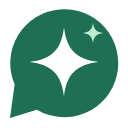
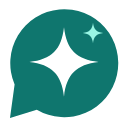
Switch the site to the teal palette

diff --git a/assets/style.css b/assets/style.css
@@ -1,14 +1,15 @@
-/* PromptClean site: the "Clean room" palette from the extension (white and mint, deep green, dark-green
-   ink). System fonts only and no scripts, so the site makes no requests to anyone else.
+/* PromptClean site: the "Teal" palette (soft teal-white, deep teal for actions and good outcomes, near-black
+   teal ink and band). System fonts only and no scripts, so the site makes no requests to anyone else.
 
    Motion is CSS only and never hides content: the page is complete at rest. Scroll-linked motion only
    slides elements a little, and only where the browser supports it and the reader has not asked for
    less motion. */
 :root {
-  --bg: #f2f7f4; --surface: #ffffff; --ink: #14302a; --muted: #4f6b64; --line: #cfe2d8;
-  --accent: #1f6f54; --accent-ink: #ffffff; --mint: #dcefe5; --mint-deep: #bfe3cf; --risk: #a4482a; --risk-bg: #fbeee7;
-  --band: #14302a; --band-ink: #e4f1ea; --band-muted: #a9c7bb; --band-line: #2b4b42; --band-accent: #8fd9b3;
-  --code-bg: #f7faf8; --todo: #fff1c2;
+  --bg: #f2f9f8; --surface: #ffffff; --ink: #0c2a29; --muted: #4a6866; --line: #cde5e2;
+  --accent: #0f766e; --accent-ink: #ffffff; --mint: #d9f0ec; --mint-deep: #b4e0d9; --risk: #a4482a; --risk-bg: #fbeee7;
+  --ok: #0f766e; --ok-bg: #dcf4f0;
+  --band: #0b3b3a; --band-ink: #e4f5f2; --band-muted: #a6cdc8; --band-line: #1f5553; --band-accent: #5eead4;
+  --code-bg: #f5faf9; --todo: #fff1c2;
   --sans: system-ui, -apple-system, "Segoe UI", Roboto, "Helvetica Neue", Arial, sans-serif;
   --mono: ui-monospace, "SF Mono", Menlo, Consolas, "Liberation Mono", monospace;
   --radius: 16px;
@@ -71,22 +72,22 @@ kbd { font: 600 0.82em var(--mono); display: inline-block; min-width: 1.9em; pad
 .hero h1 mark { background: linear-gradient(transparent 60%, var(--mint-deep) 60% 92%, transparent 92%); color: inherit; padding: 0 0.06em; border-radius: 2px; }
 .hero-shortcut { font-size: 15px; color: var(--muted); display: flex; align-items: center; gap: 10px; flex-wrap: wrap; }
 .facts-strip { display: flex; flex-wrap: wrap; gap: 8px 18px; font-size: 14px; color: var(--muted); padding-top: 18px; border-top: 1px solid var(--line); }
-.facts-strip span::before { content: "✓"; color: var(--accent); font-weight: 700; margin-right: 6px; }
+.facts-strip span::before { content: "✓"; color: var(--ok); font-weight: 700; margin-right: 6px; }
 @media (max-width: 920px) { .hero .wrap { grid-template-columns: minmax(0, 1fr); gap: 48px; } }
 
 /* the before/after, drawn in HTML so it stays readable at any width */
 .demo { display: flex; flex-direction: column; gap: 12px; }
-.pane { background: var(--surface); border: 1px solid var(--line); border-radius: var(--radius); overflow: hidden; box-shadow: 0 24px 60px -30px rgba(20, 48, 42, 0.5); }
+.pane { background: var(--surface); border: 1px solid var(--line); border-radius: var(--radius); overflow: hidden; box-shadow: 0 24px 60px -30px rgba(12, 42, 41, 0.5); }
 .pane-head { display: flex; align-items: center; justify-content: space-between; gap: 12px; padding: 11px 16px; border-bottom: 1px solid var(--line); font-size: 12px; font-weight: 750; letter-spacing: 0.08em; text-transform: uppercase; }
 .pane-head .file { font: 500 12.5px var(--mono); letter-spacing: 0; text-transform: none; color: var(--muted); }
 .pane.before .pane-head { color: var(--risk); }
-.pane.after .pane-head { color: var(--accent); }
+.pane.after .pane-head { color: var(--ok); }
 .pane pre { margin: 0; padding: 16px; font: 13.5px/1.75 var(--mono); background: var(--code-bg); overflow-x: auto; color: var(--ink); }
 .pane .dim { color: var(--muted); }
 .pane .exposed { color: var(--ink); text-decoration: underline 2px var(--risk); text-underline-offset: 3px; }
 .pane .ph { background: var(--accent); color: var(--accent-ink); border-radius: 6px; padding: 0.05em 0.45em; font-weight: 650; display: inline-block; transform-origin: left center; }
 .pane .collapsed { color: var(--accent); font-weight: 650; }
-.pane-foot { padding: 12px 16px; font-size: 14px; font-weight: 700; color: var(--accent); border-top: 1px solid var(--line); background: var(--mint); }
+.pane-foot { padding: 12px 16px; font-size: 14px; font-weight: 700; color: var(--ok); border-top: 1px solid var(--line); background: var(--ok-bg); }
 .demo-arrow { align-self: center; display: flex; align-items: center; gap: 8px; font-size: 13px; font-weight: 750; color: var(--accent); letter-spacing: 0.02em; }
 .demo-arrow::before { content: "↓"; font-size: 18px; }
 
@@ -99,7 +100,7 @@ kbd { font: 600 0.82em var(--mono); display: inline-block; min-width: 1.9em; pad
 }
 .flow-step { display: flex; flex-direction: column; gap: 22px; position: relative; }
 .flow-ui { background: linear-gradient(160deg, var(--mint) 0%, var(--bg) 100%); border: 1px solid var(--line); border-radius: 22px; padding: 22px; min-height: 280px; display: flex; flex-direction: column; justify-content: center; gap: 14px; }
-.mock { background: var(--surface); border: 1px solid var(--line); border-radius: 16px; box-shadow: 0 18px 36px -24px rgba(20, 48, 42, 0.5); }
+.mock { background: var(--surface); border: 1px solid var(--line); border-radius: 16px; box-shadow: 0 18px 36px -24px rgba(12, 42, 41, 0.5); }
 .composer { padding: 14px 16px; }
 .draft { font: 12.5px/1.75 var(--mono); color: var(--ink); margin: 0; overflow-wrap: anywhere; }
 .draft .u { text-decoration: underline 2px var(--risk); text-underline-offset: 3px; }
@@ -107,8 +108,8 @@ kbd { font: 600 0.82em var(--mono); display: inline-block; min-width: 1.9em; pad
 .mock-floats { display: flex; flex-direction: column; align-items: flex-end; gap: 8px; }
 .hint-chip { display: inline-flex; align-items: center; gap: 8px; background: var(--risk-bg); color: var(--ink); border: 1px solid color-mix(in srgb, var(--risk) 35%, transparent); border-radius: 12px; padding: 8px 12px; font-size: 12.5px; }
 .hint-chip i { font-style: normal; flex: none; width: 16px; height: 16px; border-radius: 50%; background: var(--risk); color: #fff; font: 700 11px/16px var(--sans); text-align: center; }
-.fab-pill { display: inline-flex; align-items: center; gap: 8px; background: #14302a; color: #fff; border: 1px solid rgba(255, 255, 255, 0.12); border-radius: 999px; padding: 5px 15px 5px 5px; font-weight: 650; font-size: 13px; box-shadow: 0 1px 2px rgba(8, 24, 20, 0.3), 0 8px 24px -8px rgba(8, 24, 20, 0.5); }
-.fab-pill .mark { display: grid; place-items: center; width: 24px; height: 24px; border-radius: 50%; background: #bfeccf; color: #14302a; }
+.fab-pill { display: inline-flex; align-items: center; gap: 8px; background: #0b3b3a; color: #fff; border: 1px solid rgba(255, 255, 255, 0.12); border-radius: 999px; padding: 5px 15px 5px 5px; font-weight: 650; font-size: 13px; box-shadow: 0 1px 2px rgba(6, 30, 29, 0.3), 0 8px 24px -8px rgba(6, 30, 29, 0.5); }
+.fab-pill .mark { display: grid; place-items: center; width: 24px; height: 24px; border-radius: 50%; background: #99f6e4; color: #0b3b3a; }
 .panel { padding: 14px; display: flex; flex-direction: column; gap: 10px; }
 .p-head { display: flex; align-items: center; gap: 8px; font-size: 13.5px; }
 .p-head img { border-radius: 5px; }
@@ -118,7 +119,7 @@ kbd { font: 600 0.82em var(--mono); display: inline-block; min-width: 1.9em; pad
 .p-pill svg, .p-x svg, .p-tabs svg, .p-rows svg, .fab-pill svg { flex: none; display: block; }
 .p-tabs { display: flex; gap: 2px; padding: 3px; background: var(--mint); border-radius: 11px; font-size: 12.5px; font-weight: 600; }
 .p-tabs span { flex: 1; display: flex; align-items: center; justify-content: center; gap: 6px; padding: 6px; border-radius: 8px; color: var(--muted); }
-.p-tabs .on { background: var(--surface); color: var(--accent); box-shadow: 0 1px 2px rgba(18, 48, 42, 0.14), 0 0 0 1px var(--line); }
+.p-tabs .on { background: var(--surface); color: var(--accent); box-shadow: 0 1px 2px rgba(12, 42, 41, 0.14), 0 0 0 1px var(--line); }
 .p-intro { margin: 0; font-size: 11.5px; line-height: 1.45; color: var(--muted); }
 .p-card { border: 1px solid var(--line); border-radius: 10px; padding: 8px 10px; background: var(--surface); }
 .p-count { font-size: 12px; font-weight: 650; margin: 0 0 4px; padding-bottom: 7px; border-bottom: 1px solid var(--line); }
@@ -132,7 +133,7 @@ kbd { font: 600 0.82em var(--mono); display: inline-block; min-width: 1.9em; pad
 .p-btn { background: var(--accent); color: var(--accent-ink); text-align: center; border-radius: 10px; padding: 9px; font-weight: 650; font-size: 13.5px; }
 .c-foot { display: flex; align-items: center; justify-content: flex-end; gap: 12px; margin-top: 12px; font-size: 12px; color: var(--muted); }
 .send { width: 28px; height: 28px; border-radius: 50%; background: var(--accent); color: var(--accent-ink); display: grid; place-items: center; font-weight: 700; box-shadow: 0 0 0 4px var(--mint-deep); }
-.ok-line { margin: 0; color: var(--accent); font-size: 12.5px; font-weight: 650; }
+.ok-line { margin: 0; color: var(--ok); font-size: 12.5px; font-weight: 650; }
 .flow-text { display: grid; grid-template-columns: 40px minmax(0, 1fr); gap: 2px 14px; align-items: start; align-content: start; }
 .flow-n { grid-row: 1 / span 2; width: 40px; height: 40px; border-radius: 50%; background: var(--accent); color: var(--accent-ink); font: 700 15px var(--mono); display: grid; place-items: center; box-shadow: 0 8px 18px -10px var(--accent); }
 .flow-text h3 { font-size: 1.18rem; align-self: center; }
@@ -143,7 +144,7 @@ kbd { font: 600 0.82em var(--mono); display: inline-block; min-width: 1.9em; pad
 }
 @media (hover: hover) and (pointer: fine) and (prefers-reduced-motion: no-preference) {
   .flow-ui { transition: transform 200ms var(--ease-out), box-shadow 200ms var(--ease-out); }
-  .flow-step:hover .flow-ui { transform: translateY(-3px); box-shadow: 0 22px 40px -28px rgba(20, 48, 42, 0.55); }
+  .flow-step:hover .flow-ui { transform: translateY(-3px); box-shadow: 0 22px 40px -28px rgba(12, 42, 41, 0.55); }
 }
 
 /* ---------- the moment it matters: switch the log between three states ----------
@@ -173,12 +174,13 @@ kbd { font: 600 0.82em var(--mono); display: inline-block; min-width: 1.9em; pad
 .moment-steps h3 { font-size: 1.08rem; }
 .moment-steps p { color: var(--band-muted); font-size: 15.5px; margin-top: 4px; }
 .moment .pane-head { color: var(--accent); }
-.moment .pane-foot { font-variant-numeric: tabular-nums; }
+/* this foot starts in the exposed state ("Secrets hidden: 0"), so it stays violet rather than the teal "all clear" */
+.moment .pane-foot { font-variant-numeric: tabular-nums; color: var(--accent); background: var(--mint); }
 
 .seg { position: relative; display: inline-flex; flex-wrap: wrap; gap: 4px; padding: 4px; border: 1px solid var(--band-line); border-radius: 999px; background: rgba(255, 255, 255, 0.04); margin-bottom: 18px; }
 .seg input { position: absolute; left: 0; top: 0; opacity: 0; width: 1px; height: 1px; margin: 0; }
 .seg label { padding: 9px 16px; border-radius: 999px; font-weight: 650; font-size: 14px; color: var(--band-muted); cursor: pointer; }
-.seg input:checked + label { background: var(--band-accent); color: #0b1a14; }
+.seg input:checked + label { background: var(--band-accent); color: #0b3b3a; }
 .seg input:focus-visible + label { outline: 3px solid var(--band-accent); outline-offset: 2px; }
 
 .lp-body { padding: 16px; font: 13.5px/1.75 var(--mono); background: var(--code-bg); color: var(--ink); contain: layout paint; }
@@ -222,7 +224,7 @@ kbd { font: 600 0.82em var(--mono); display: inline-block; min-width: 1.9em; pad
 
 /* ---------- shortcuts ---------- */
 .keys { display: grid; grid-template-columns: repeat(auto-fit, minmax(300px, 1fr)); gap: 22px; margin-top: 44px; }
-.key-card { border: 1px solid var(--line); border-radius: 20px; padding: 28px; display: flex; flex-direction: column; gap: 16px; background: var(--surface); box-shadow: 0 1px 0 var(--line), 0 18px 40px -28px rgba(20, 48, 42, 0.35); }
+.key-card { border: 1px solid var(--line); border-radius: 20px; padding: 28px; display: flex; flex-direction: column; gap: 16px; background: var(--surface); box-shadow: 0 1px 0 var(--line), 0 18px 40px -28px rgba(12, 42, 41, 0.35); }
 .key-card .combo { font-size: 22px; }
 .key-card kbd { background: var(--mint); color: var(--ink); border-color: var(--mint-deep); }
 .key-card h3 { font-size: 1.4rem; }
@@ -262,7 +264,7 @@ kbd { font: 600 0.82em var(--mono); display: inline-block; min-width: 1.9em; pad
 .trio > div:first-child { border-left: none; }
 .trio-label { font-size: 12.5px; font-weight: 700; letter-spacing: 0.1em; text-transform: uppercase; color: var(--muted); }
 .trio-big { font-size: 1.75rem; font-weight: 750; letter-spacing: -0.02em; line-height: 1.15; }
-.trio .nothing .trio-big { color: var(--accent); font-size: 2.5rem; }
+.trio .nothing .trio-big { color: var(--ok); font-size: 2.5rem; }
 .trio p:last-child { color: var(--muted); font-size: 15.5px; }
 @media (max-width: 780px) { .trio > div { border-left: none; border-top: 1px solid var(--line); } .trio > div:first-child { border-top: none; } }
 .it-more { margin-top: 22px; display: flex; flex-direction: column; gap: 16px; }

diff --git a/index.html b/index.html
@@ -6,7 +6,7 @@
   <title>PromptClean — AI security for what you paste</title>
   <meta name="description" content="AI security for what you paste. A free Chrome extension that hides customer data and secrets in logs before they reach ChatGPT, Claude or Gemini, and collapses the repeated lines. Two keyboard shortcuts, no account, nothing sent anywhere.">
   <link rel="icon" type="image/png" href="assets/favicon.png">
-  <link rel="stylesheet" href="assets/style.css?v=5">
+  <link rel="stylesheet" href="assets/style.css?v=8">
 </head>
 <body>
   <a href="#main" class="skip">Skip to content</a>
